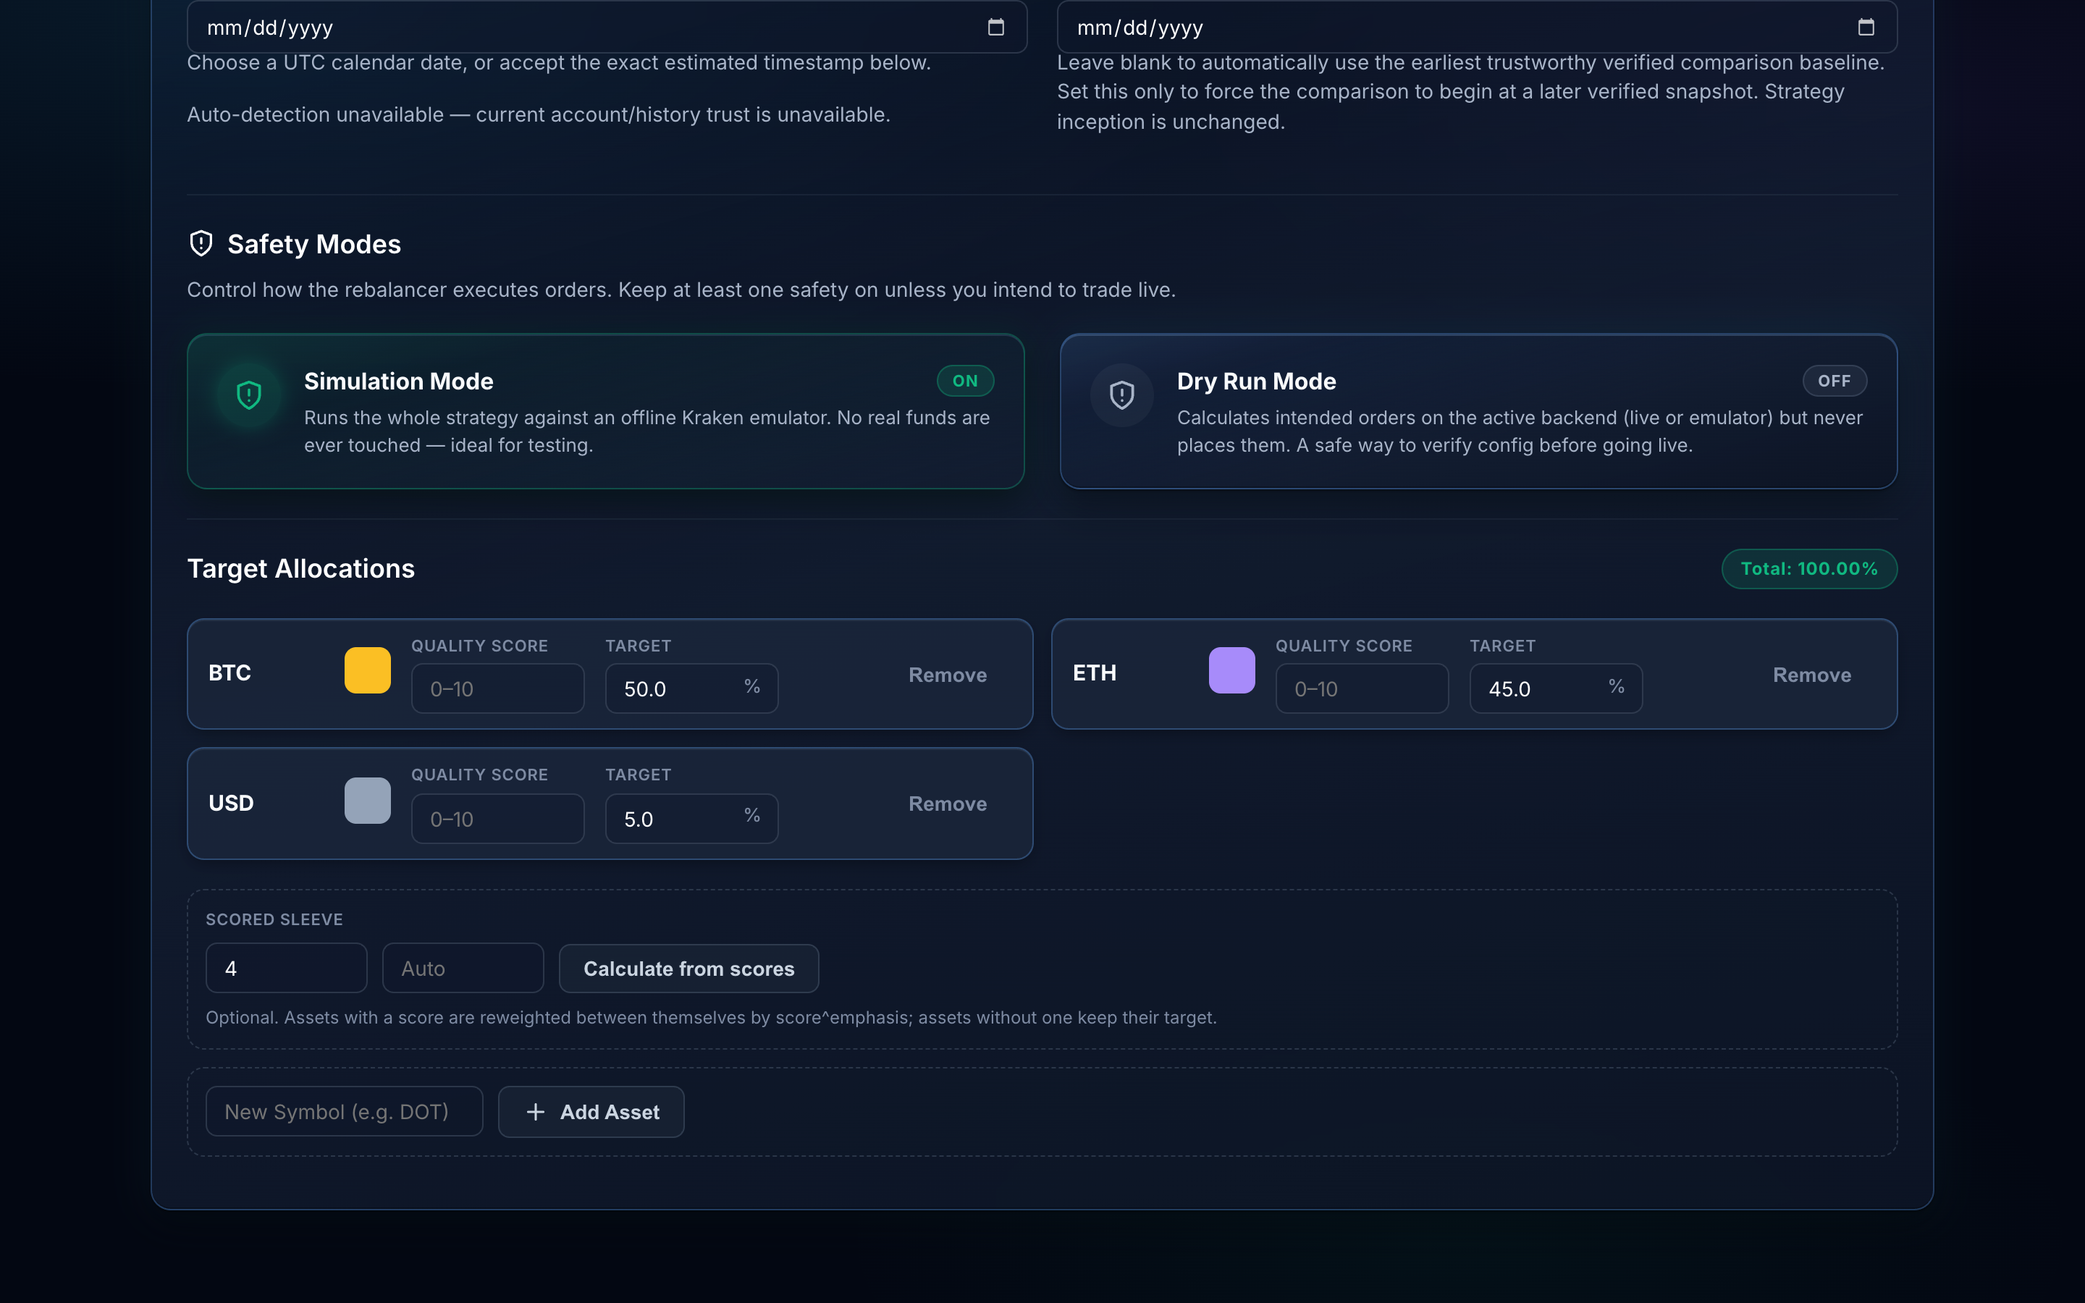
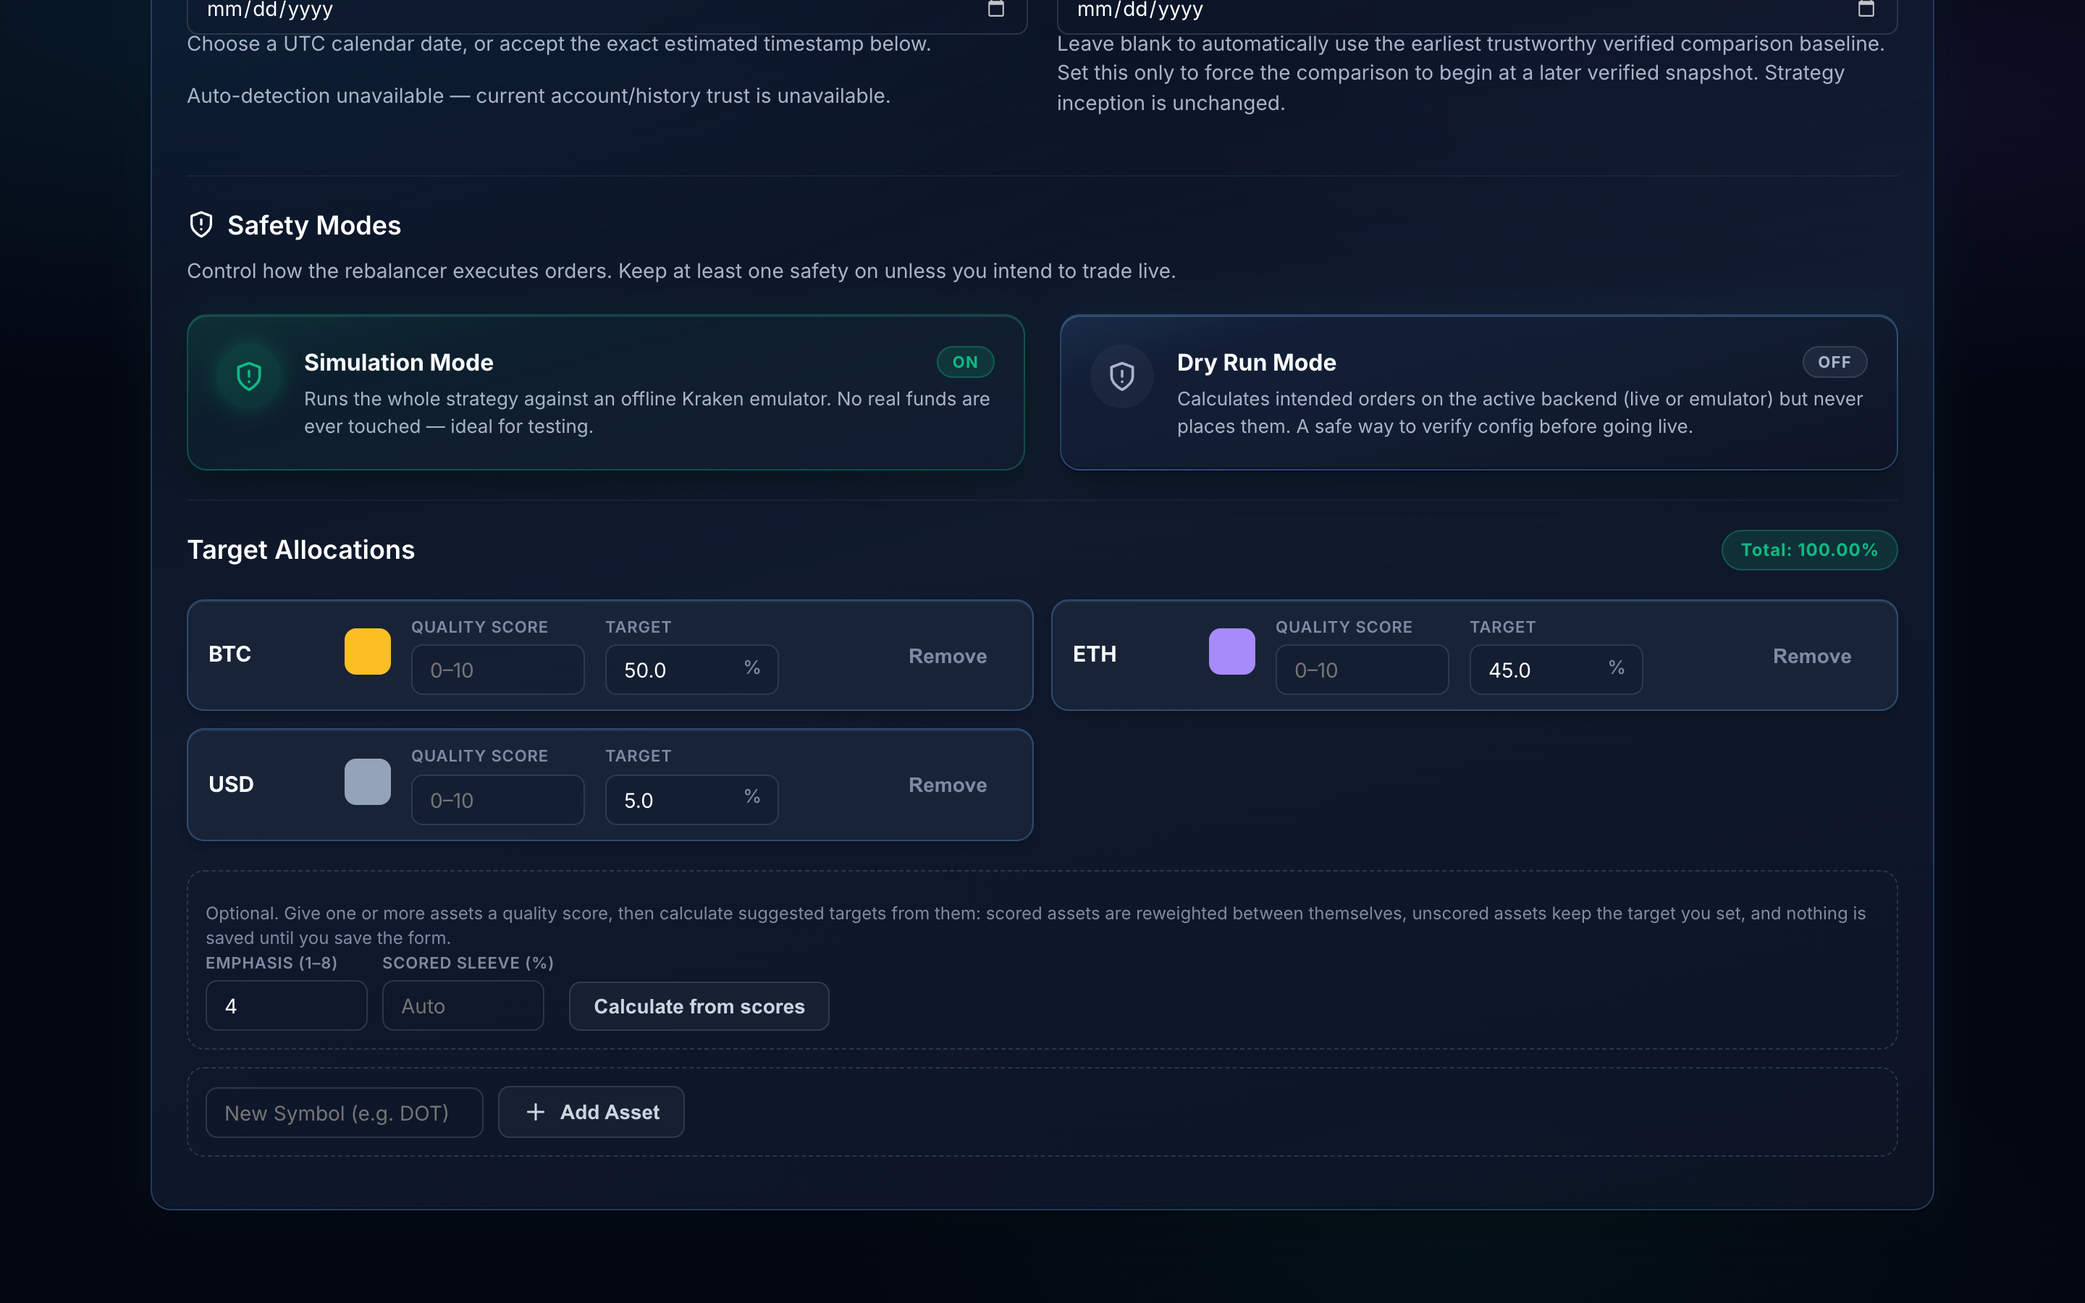
fix(settings): label the score preview controls and document them
The emphasis field is pre-filled, so its placeholder could never render and the
operator was left with a bare "4": no label, no range, and nothing to say that it
is an optional preview rather than a saved setting. The group was also titled
"Scored sleeve", which is the name of its second field, so the first one looked
unexplained by association.

Each field now carries its own visible label - "Emphasis (1-8)" and "Scored
sleeve (%)" - matching how the allocation rows label their two numeric fields,
the box is untitled, and a lead-in explains what the group does and that nothing
is saved until the form is.

The two emphasis values are now named constants in QualityAllocation rather than
a hardcoded "4" in the markup and a private "1" in the controller. They are
deliberately different: the form pre-selects a steep 4, while an absent field
falls back to the flattest weighting, because "not chosen" is not "chosen as the
default". A test pins both, along with the labels, so a bare prefilled number
cannot come back.

The User Guide gained what was missing: what the preview is, what it deliberately
does not do (it never changes holdings and never moves money on its own), a
four-step how-to, a worked example at emphasis 1 and 4, and the scope of each of
the three figures. Both example rows were verified against a running instance
rather than worked out by hand - the first attempt at the emphasis-1 row was
wrong because I had assumed a 87.5 sleeve instead of the real 95.
[…]

diff --git a/backend/src/main/kotlin/com/gemini/krakenbot/view/component/SettingsFormComponent.kt b/backend/src/main/kotlin/com/gemini/krakenbot/view/component/SettingsFormComponent.kt
@@ -575,25 +575,31 @@ class SettingsFormComponent {
 
             // The score controls and the add-asset control used to share one dashed box, which read
             // as a single form of related fields. They are separate jobs, so they are separate
-            // labelled groups, and the sleeve input no longer borrows the "Target Allocations"
-            // heading text as its placeholder.
+            // groups. This one carries no group title: "scored sleeve" is the name of the second
+            // field, and titling the whole box with it made the emphasis field look unexplained.
+            // The hint leads instead, and each field names itself the way the rows do.
             div(CssClass.Form.AllocationControlRow) {
                 div(CssClass.Form.AllocationControlGroup) {
-                    span(CssClass.Form.AllocationControlLabel) { +ViewText.ALLOCATION_SLEEVE_FIELD }
+                    span(CssClass.Form.AllocationControlHint) { +ViewText.ALLOCATION_SCORE_HINT }
                     div(CssClass.Form.AllocationControlInputs) {
-                        input(CssClass.Form.InputGlass, type = number) {
-                            id = HtmlIds.SCORE_EMPHASIS_INPUT
-                            name = FormFields.SCORE_EMPHASIS
-                            value = "4"
-                            min = "1"
-                            max = QualityAllocation.MAX_EMPHASIS.toString()
-                            placeholder = ViewText.ALLOCATION_SCORE_EMPHASIS
+                        div(CssClass.Form.AllocationControlField) {
+                            span(CssClass.Form.AllocationFieldLabel) { +ViewText.ALLOCATION_SCORE_EMPHASIS }
+                            input(CssClass.Form.InputGlass, type = number) {
+                                id = HtmlIds.SCORE_EMPHASIS_INPUT
+                                name = FormFields.SCORE_EMPHASIS
+                                value = QualityAllocation.DEFAULT_EMPHASIS.toString()
+                                min = "1"
+                                max = QualityAllocation.MAX_EMPHASIS.toString()
+                            }
                         }
-                        input(CssClass.Form.InputGlass, type = number) {
-                            id = HtmlIds.SCORE_SLEEVE_INPUT
-                            name = FormFields.SCORE_SLEEVE_PERCENT
-                            step = PrecisionConstants.ALLOCATION_STEP_PERCENT.toString()
-                            placeholder = ViewText.ALLOCATION_SLEEVE_PLACEHOLDER
+                        div(CssClass.Form.AllocationControlField) {
+                            span(CssClass.Form.AllocationFieldLabel) { +ViewText.ALLOCATION_SLEEVE_FIELD }
+                            input(CssClass.Form.InputGlass, type = number) {
+                                id = HtmlIds.SCORE_SLEEVE_INPUT
+                                name = FormFields.SCORE_SLEEVE_PERCENT
+                                step = PrecisionConstants.ALLOCATION_STEP_PERCENT.toString()
+                                placeholder = ViewText.ALLOCATION_SLEEVE_PLACEHOLDER
+                            }
                         }
                         button(
                             CssClass.Button.Secondary,
@@ -606,7 +612,6 @@ class SettingsFormComponent {
                             span { +ViewText.ALLOCATIONS_FROM_SCORES }
                         }
                     }
-                    span(CssClass.Form.AllocationControlHint) { +ViewText.ALLOCATION_SCORE_HINT }
                 }
             }
 

diff --git a/backend/src/test/kotlin/com/gemini/krakenbot/view/component/SettingsFormComponentTest.kt b/backend/src/test/kotlin/com/gemini/krakenbot/view/component/SettingsFormComponentTest.kt
@@ -4,6 +4,7 @@ import com.gemini.krakenbot.TestFixtures
 import com.gemini.krakenbot.config.Allocation
 import com.gemini.krakenbot.config.AppConfig
 import com.gemini.krakenbot.config.KrakenCredentials
+import com.gemini.krakenbot.domain.QualityAllocation
 import com.gemini.krakenbot.model.Asset
 import com.gemini.krakenbot.model.ComparisonAvailability
 import com.gemini.krakenbot.model.ComparisonProposalStatus
@@ -50,6 +51,38 @@ class SettingsFormComponentTest : StringSpec() {
     }
 
     init {
+        "the score preview fields each carry a visible label" {
+            val html = render(
+                config(),
+                InceptionDisplayInfo(status = InceptionDisplayStatus.UNAVAILABLE),
+            )
+
+            // Both preview inputs are pre-filled or empty, so a label is the only thing that
+            // explains them. A prefilled emphasis is the worst case: its placeholder can never
+            // show, so without a label the operator sees a bare "4" with nothing to say what it is
+            // or what it does.
+            html shouldContain "Emphasis (1–8)"
+            html shouldContain "Scored sleeve (%)"
+            html shouldContain "reweighted between themselves"
+            // The group itself is untitled: "scored sleeve" names the field, not the box.
+            html shouldNotContain "allocation-control-label"
+        }
+
+        "the emphasis input pre-selects the shared domain default" {
+            val html = render(
+                config(),
+                InceptionDisplayInfo(status = InceptionDisplayStatus.UNAVAILABLE),
+            )
+
+            html shouldContain "value=\"${QualityAllocation.DEFAULT_EMPHASIS}\""
+            // An out-of-range default would make every preview fail validation, so the form
+            // default has to sit inside the range the engine accepts.
+            (QualityAllocation.DEFAULT_EMPHASIS in 1..QualityAllocation.MAX_EMPHASIS) shouldBe true
+            // An absent field means "not chosen" and falls back to the flattest weighting, which
+            // is deliberately not the pre-selected default.
+            QualityAllocation.FALLBACK_EMPHASIS shouldBe 1
+        }
+
         "approved pending renders the recovery progress marker" {
             val html = render(
                 config(inceptionDate = "2026-01-01T00:00:00Z"),

diff --git a/backend/src/main/kotlin/com/gemini/krakenbot/view/css/FormStyles.kt b/backend/src/main/kotlin/com/gemini/krakenbot/view/css/FormStyles.kt
@@ -418,20 +418,23 @@ object FormStyles {
             padding = Padding(0.75.rem)
         }
 
-        ".${CssClass.Form.AllocationControlLabel}" {
-            display = Display.block
-            fontSize = 0.6875.rem
-            fontWeight = FontWeight.w600
-            letterSpacingRaw("0.04em")
-            textTransformRaw("uppercase")
-            color = CssTheme.colorTextMuted
-            marginBottom = 0.5.rem
-        }
-
         ".${CssClass.Form.AllocationControlInputs}" {
             display = Display.flex
-            alignItems = Align.center
+            alignItems = Align.end
             gap = 0.625.rem
+        }
+
+        // Each preview field labels itself the way the allocation rows do, so a prefilled emphasis
+        // is never just a bare number and "Scored sleeve" names its own field rather than the box.
+        ".${CssClass.Form.AllocationControlField}" {
+            display = Display.flex
+            flexDirection = FlexDirection.column
+            gap = 0.25.rem
+        }
+
+        ".${CssClass.Form.AllocationControlField} input" {
+            width = 7.5.rem
+            flexShrinkRaw("0")
         }
 
         // Inputs keep their own width instead of growing, so Add Asset is not the largest control

diff --git a/backend/src/main/kotlin/com/gemini/krakenbot/controller/DashboardController.kt b/backend/src/main/kotlin/com/gemini/krakenbot/controller/DashboardController.kt
@@ -76,9 +76,6 @@ import java.time.temporal.ChronoUnit
 import java.util.concurrent.atomic.AtomicInteger
 import java.util.concurrent.atomic.AtomicLong
 
-/** Score weighting used when the allocation preview request supplies no emphasis at all. */
-private const val DEFAULT_SCORE_EMPHASIS = 1
-
 class DashboardController(
     private val tradeHistoryService: TradeHistoryService,
     private val configService: ConfigService,
@@ -469,7 +466,7 @@ class DashboardController(
         // while an out-of-range value is refused.
         val emphasisField = params[FormFields.SCORE_EMPHASIS]?.trim().takeUnless { it.isNullOrEmpty() }
         val emphasis = if (emphasisField == null) {
-            DEFAULT_SCORE_EMPHASIS
+            QualityAllocation.FALLBACK_EMPHASIS
         } else {
             emphasisField.toIntOrNull()
                 ?: throw IllegalArgumentException(ViewText.INVALID_ALLOCATION_EMPHASIS)

diff --git a/engine/src/main/kotlin/com/gemini/krakenbot/domain/QualityAllocation.kt b/engine/src/main/kotlin/com/gemini/krakenbot/domain/QualityAllocation.kt
@@ -19,6 +19,18 @@ object QualityAllocation {
     /** Maximum supported steepness; beyond this the allocation collapses onto the top score. */
     const val MAX_EMPHASIS = 8
 
+    /**
+     * Emphasis the settings form pre-selects. Steep enough that a clearly better score wins
+     * clearly, which is the point of scoring assets at all, while leaving room to flatten it.
+     */
+    const val DEFAULT_EMPHASIS = 4
+
+    /**
+     * Emphasis applied when a request supplies none. Deliberately the flattest weighting rather
+     * than [DEFAULT_EMPHASIS]: an absent field is "not chosen", not "chosen as the default".
+     */
+    const val FALLBACK_EMPHASIS = 1
+
     /** Percent scale used for allocation targets. */
     private const val PERCENT_SCALE = 2
 

diff --git a/docs/USER_GUIDE.md b/docs/USER_GUIDE.md
@@ -253,23 +253,57 @@ labelled so a score is never mistaken for a target.
 
 #### Calculating targets from quality scores
 
-The **Scored Sleeve** group turns scores into suggested targets:
+**What it is.** An optional helper that suggests target percentages from the
+quality scores you assign, so you are not hand-tuning numbers you would rather
+express as a preference. It only ever produces a *preview*: it rewrites the
+target fields in the form and nothing reaches your configuration until you press
+**Save Configuration**.
+
+**What it does not do.** It never changes what you hold on its own, and it never
+moves money. Until you save, the preview is a calculation you can discard by
+pressing **Calculate from scores** with different inputs, or by reloading the
+page.
+
+**How to use it.**
+
+1. Give one or more assets a **Quality score** between **0** and **10** in their
+   row. Leave a row blank to exclude it. At least one score is required — with
+   none, the form reports *"Enter a quality score for at least one asset before
+   calculating"*.
+2. Set **Emphasis** to control how hard a higher score wins. The form
+   pre-selects **4**.
+3. Optionally set **Scored sleeve**, the amount of the book to redistribute.
+   Leave it on **Auto** to use the combined current target of the scored assets.
+4. Press **Calculate from scores** and read the result.
 
 | Control | Purpose |
 | :--- | :--- |
-| **Emphasis** | How sharply a higher score wins. Range **1–8**; leave blank for the flattest weighting. |
-| **Scored sleeve** | The percent to redistribute. Defaults to the combined target of the scored assets; **Auto** when blank. |
-| **Calculate from scores** | Previews the split. Nothing is saved until you save the form. |
+| **Emphasis (1–8)** | Steepness of the split. Each asset's weight is its score raised to this power, so the ratio between two assets grows quickly with the setting. Leave blank for the flattest weighting (1). |
+| **Scored sleeve (%)** | How much of the book the scored assets share. **Auto** = the combined current target of the scored assets, which normally leaves unscored assets untouched. |
+| **Calculate from scores** | Runs the preview. Nothing is saved until you save the form. |
 
-Only assets with a score take part, and they are reweighted between themselves
-in proportion to `score^emphasis`; assets without a score keep the target you
-already set. The preview then reports three figures:
+**How the split works.** Scored assets are reweighted *between themselves*, in
+proportion to `score^emphasis`, and that share of the book is then divided among
+them. Assets without a score keep the target you already set, which is why the
+total still has to come to **100.00%**.
 
-| Figure | Scope |
-| :--- | :--- |
-| **Weighted quality score** | Score-weighted average across the **scored assets only** — an unscored asset has no score to contribute. |
-| **Largest single position** | Largest leg as a share of the **whole book**, including the preserved unscored targets. |
-| **Effective independent bets** | `1 / Σ(share²)` over the **whole book** — equals the leg count when evenly weighted and 1 when fully concentrated. |
+Worked example — the default targets BTC **50%**, ETH **45%**, USD **5%**, with
+BTC scored **9.5** and ETH scored **6.0**. The scored sleeve is 95%, and USD is
+untouched either way:
+
+| Emphasis | BTC | ETH | USD (untouched) |
+| ---: | ---: | ---: | ---: |
+| **1** (flattest) | 58.23% | 36.77% | 5% |
+| **4** (pre-selected) | 81.96% | 13.04% | 5% |
+
+**Reading the three figures.** They answer different questions, and each says
+which one:
+
+| Figure | What it answers | Scope |
+| :--- | :--- | :--- |
+| **Weighted quality score** | How strong the scored assets look overall. | **Scored assets only** — an unscored asset has no score to average in. |
+| **Largest single position** | Am I concentrated? | The **whole book**, including the targets preserved for unscored assets. |
+| **Effective independent bets** | How many genuinely separate positions do I hold? | The **whole book**. `1 / Σ(share²)`: equals the leg count when evenly weighted, and **1** when everything sits in one asset. Two assets at 86 / 14 behave like **1.3** bets, not 2. |
 
 Deeper behavior (drawdown deployment, sell-then-buy, dust) is documented in
 [ALGORITHM.md](ALGORITHM.md).

diff --git a/CHANGELOG.md b/CHANGELOG.md
@@ -112,13 +112,23 @@ to [Semantic Versioning](https://semver.org/spec/v2.0.0.html).
 
 ### Changed
 
+- **The score preview controls were unexplained**: the emphasis field is pre-filled, so its
+  placeholder could never show and the operator saw a bare `4` with no label, range, or
+  indication that it is an optional preview rather than a saved setting. The group was also titled
+  `Scored sleeve`, which is the name of its *second* field. Both fields now carry their own visible
+  labels — `Emphasis (1–8)` and `Scored sleeve (%)` — the box is untitled, and a lead-in explains
+  what the group does. The pre-selected emphasis and the absent-field fallback are now named
+  constants in `QualityAllocation` rather than a hardcoded `4` in the markup and a private `1` in
+  the controller; they are deliberately different values, because an absent field means "not
+  chosen" rather than "chosen as the default".
 - **Docs**: refreshed `docs/images/*` from the current build so the gallery is no longer
   mixed-vintage, and added a `settings-allocations.png` target for the rebuilt target-allocation
   editor, which the existing top-anchored `settings.png` cropped out. The User Guide's *Target
-  allocations* section now documents the quality score, the Scored Sleeve controls, and the scope
-  of each preview figure, and its comparison section documents the two selectable benchmarks
-  instead of assuming one. Two capture targets pointed at text the app no longer renders
-  (`Rebalancer vs Buy & Hold`, `Staking Rewards`) and were repointed.
+  allocations* section now documents the quality score and the preview controls — what they are, what
+  they deliberately do not do, a four-step how-to, and a worked example at emphasis 1 and 4 — plus
+  what scope each preview figure is measured over, and its comparison section documents the two
+  selectable benchmarks instead of assuming one. Two capture targets pointed at text the app no
+  longer renders (`Rebalancer vs Buy & Hold`, `Staking Rewards`) and were repointed.
 - **Allocation preview figures are measured over the whole portfolio**: the three preview metrics were
   all computed over the scored sleeve, so `Largest single position` reported BTC as 86.27% when its
   actual share of the book was 81.96%, and `Effective independent bets` silently ignored the
